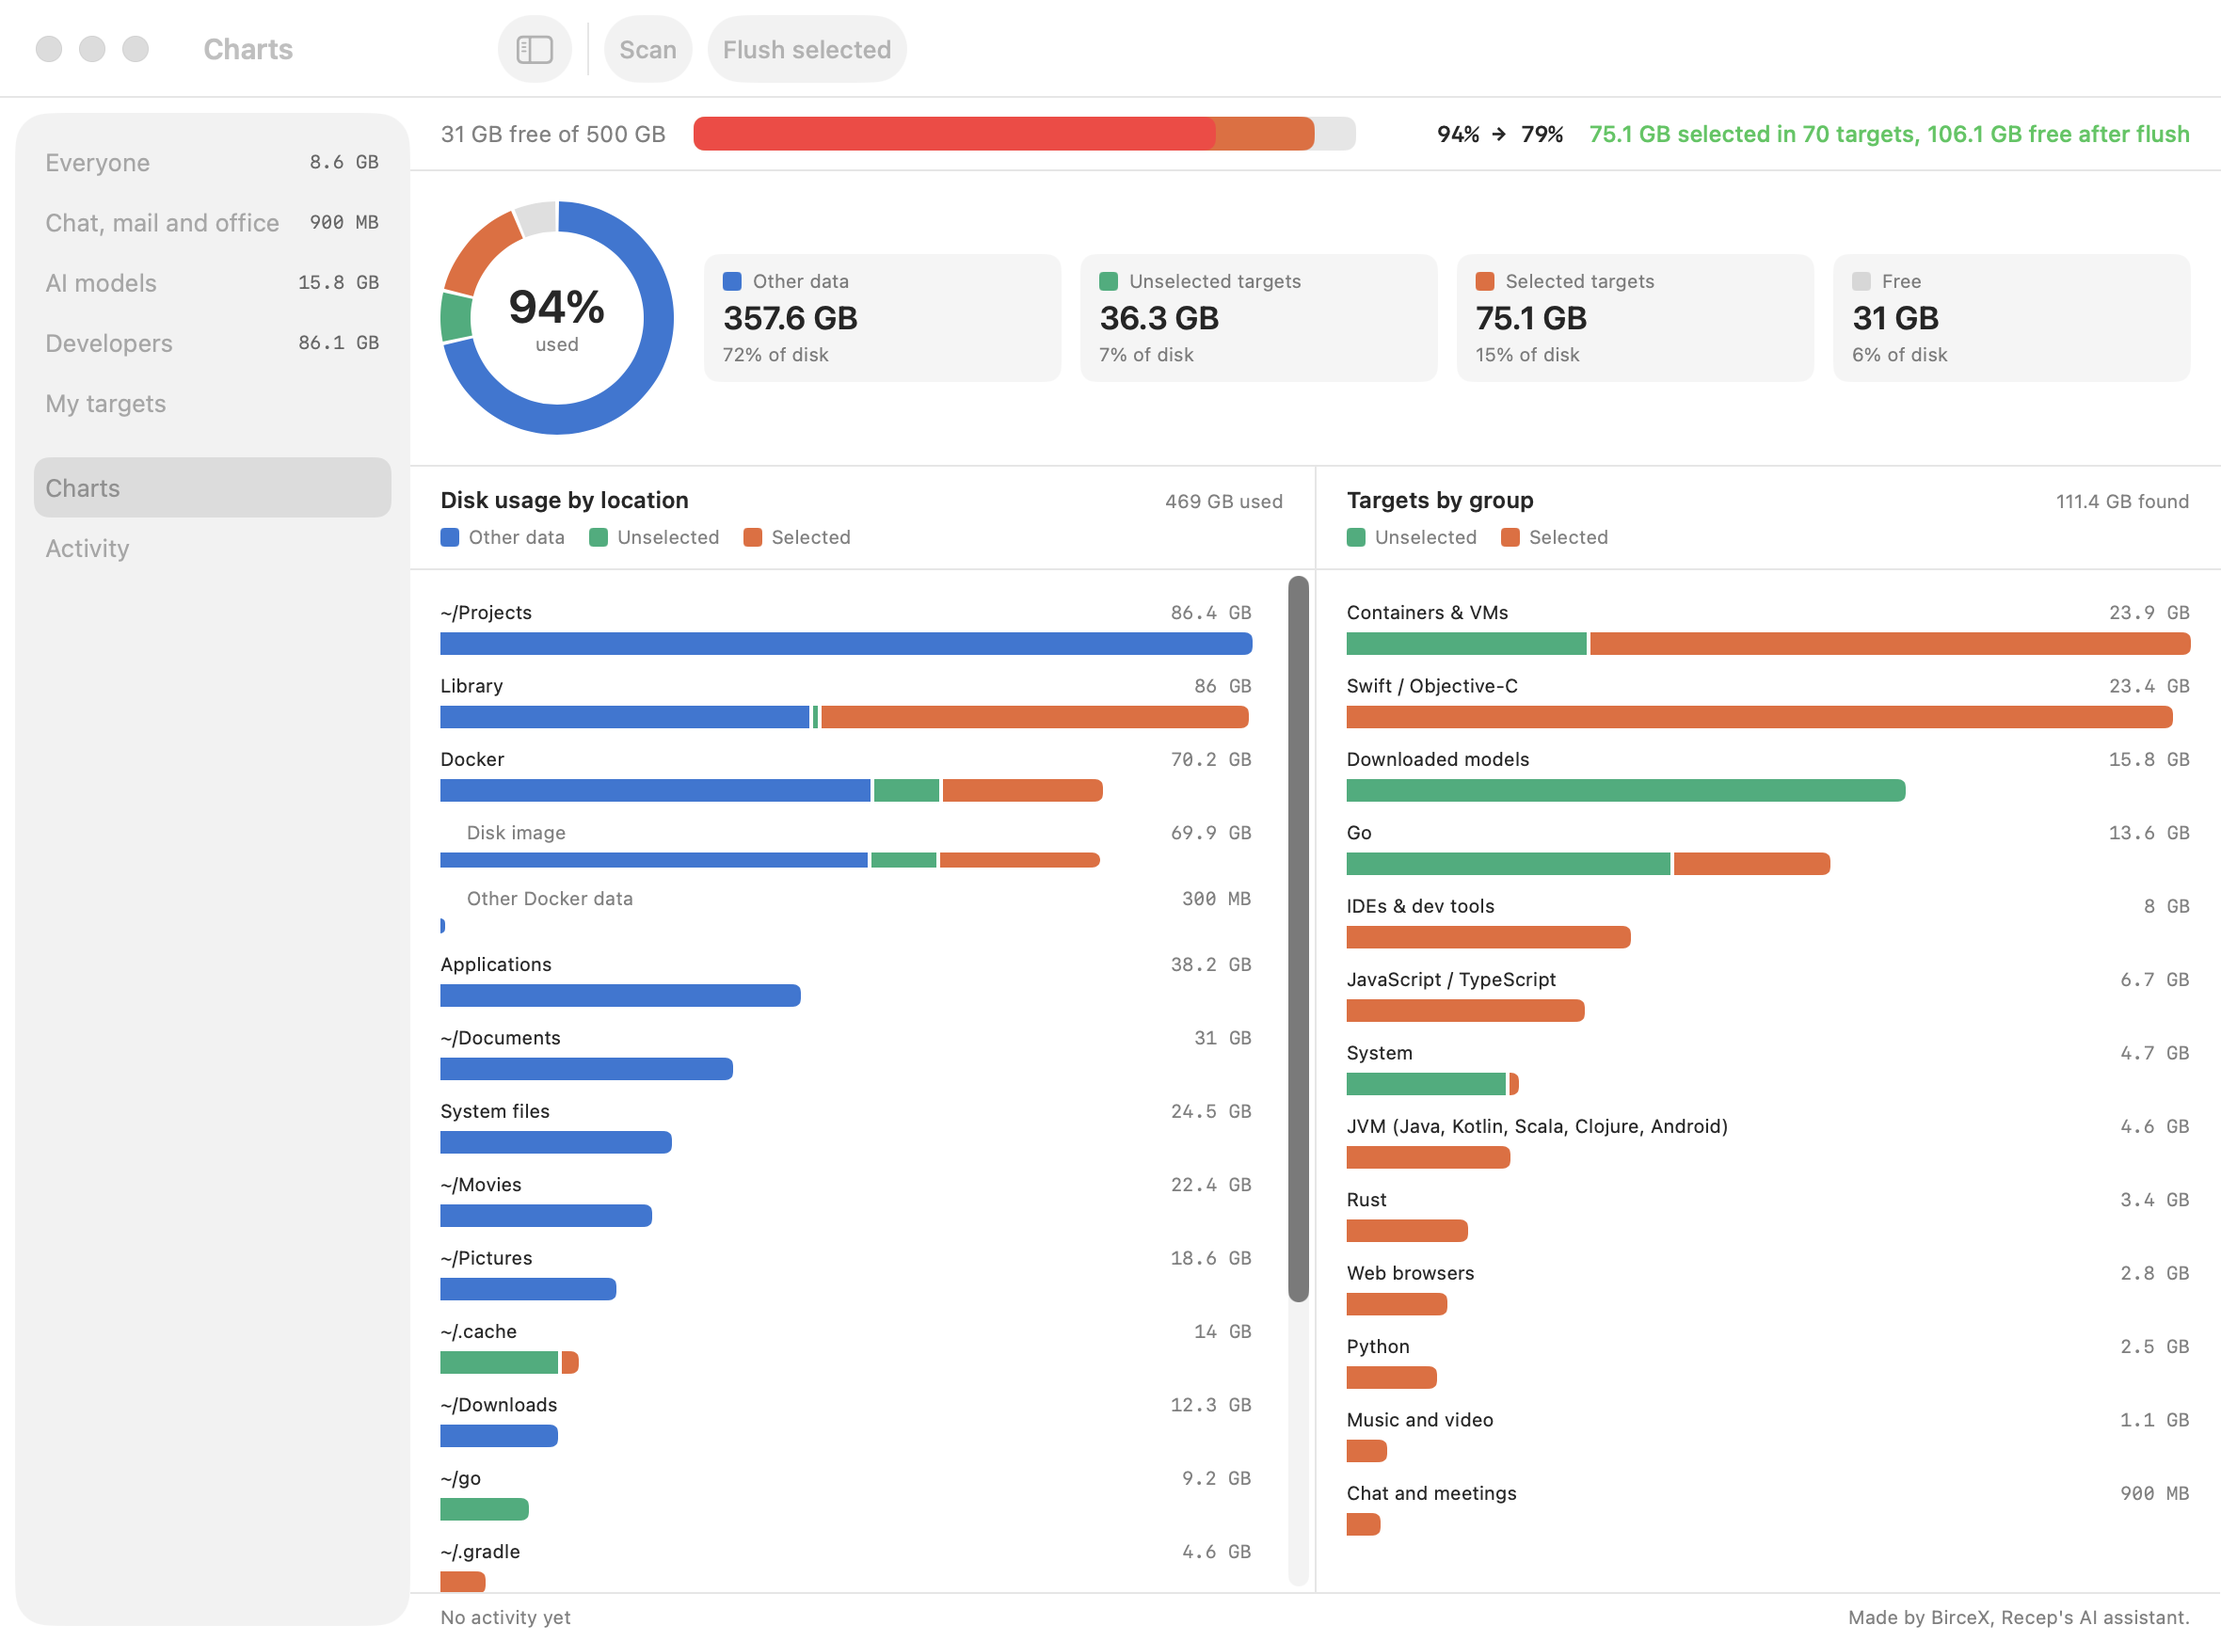
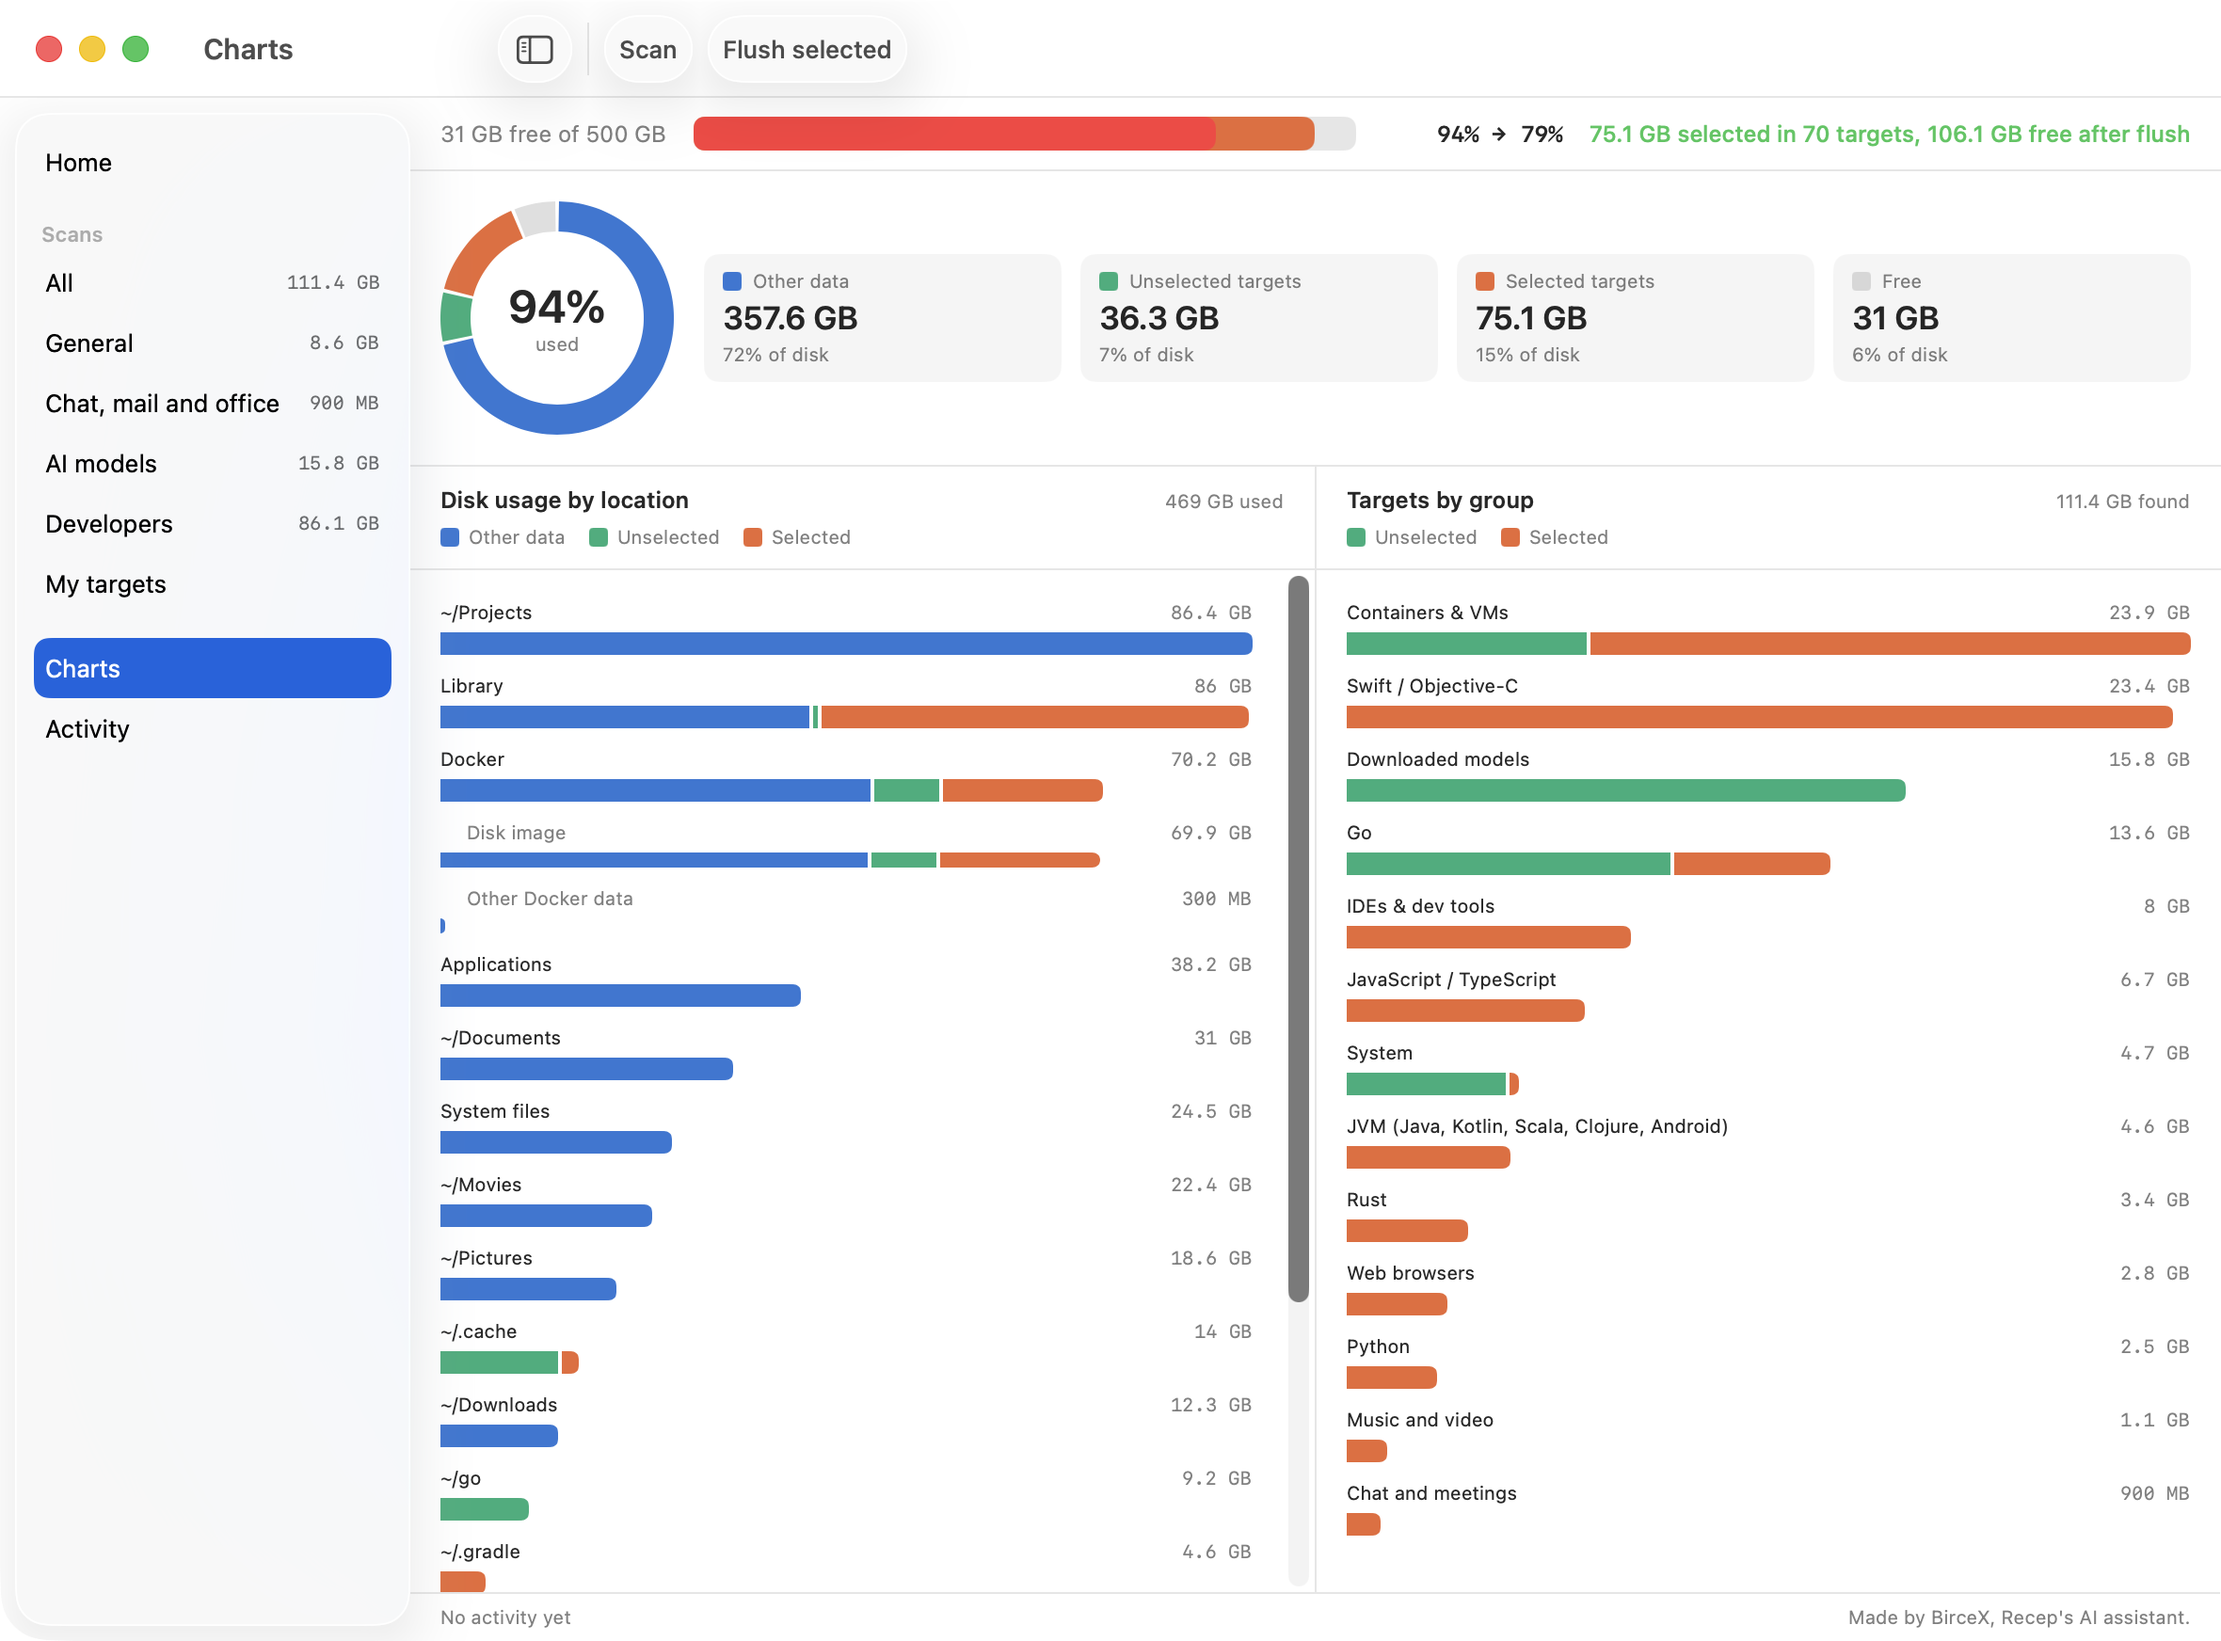
Home page, Scans heading, All page

Changed region(s): [[0.0, 0.2787, 0.1856, 0.4644], [0.0309, 0.0929, 0.1237, 0.2477], [0.0309, 0.0, 0.0619, 0.0619]]

diff --git a/Sources/MacOSFlusher/ContentView.swift b/Sources/MacOSFlusher/ContentView.swift
@@ -1,12 +1,16 @@
 import SwiftUI
 
 enum Page: Hashable {
+    case home
+    case all
     case audience(Audience)
     case charts
     case activity
 
     var title: String {
         switch self {
+        case .home: return Messages.home
+        case .all: return Messages.all
         case .audience(let audience): return audience.name
         case .charts: return Messages.charts
         case .activity: return Messages.activity
@@ -65,6 +69,8 @@ struct ContentView: View {
     @ViewBuilder
     private var page: some View {
         switch store.page {
+        case .home: HomePage()
+        case .all: AllPage()
         case .audience(let audience): TargetsPage(audience: audience)
         case .charts: ChartsPage()
         case .activity: ActivityPage()
@@ -81,18 +87,11 @@ struct Sidebar: View {
 
     var body: some View {
         List(selection: selection) {
-            Section {
+            Text(Messages.home).tag(Page.home)
+            Section(Messages.scans) {
+                row(Messages.all, bytes: store.measuredTotal).tag(Page.all)
                 ForEach(Audience.allCases) { audience in
-                    HStack {
-                        Text(audience.name)
-                        Spacer()
-                        if store.total(of: audience) > 0 {
-                            Text(Format.bytes(store.total(of: audience)))
-                                .font(.system(.caption, design: .monospaced))
-                                .foregroundStyle(.secondary)
-                        }
-                    }
-                    .tag(Page.audience(audience))
+                    row(audience.name, bytes: store.total(of: audience)).tag(Page.audience(audience))
                 }
             }
             Section {
@@ -101,6 +100,83 @@ struct Sidebar: View {
             }
         }
         .listStyle(.sidebar)
+    }
+
+    private func row(_ name: String, bytes: Int64) -> some View {
+        HStack {
+            Text(name)
+            Spacer()
+            if bytes > 0 {
+                Text(Format.bytes(bytes))
+                    .font(.system(.caption, design: .monospaced))
+                    .foregroundStyle(.secondary)
+            }
+        }
+    }
+}
+
+struct HomePage: View {
+    @EnvironmentObject var store: Store
+
+    var body: some View {
+        ScrollView {
+            VStack(alignment: .leading, spacing: 22) {
+                VStack(alignment: .leading, spacing: 8) {
+                    Text(Messages.homeTitle).font(.title.bold())
+                    Text(Messages.homeLead).foregroundStyle(.secondary)
+                }
+                step("1", Messages.homeStepScan, Messages.homeStepScanText)
+                step("2", Messages.homeStepChoose, Messages.homeStepChooseText)
+                step("3", Messages.homeStepFlush, Messages.homeStepFlushText)
+                step("+", Messages.homeOwn, Messages.homeOwnText)
+                Text(Messages.homeMore).foregroundStyle(.secondary)
+                HStack(spacing: 10) {
+                    Button(Messages.scan) { store.scan() }.disabled(store.busy)
+                    Button(Messages.all) { store.page = .all }
+                    Button(Messages.addTarget) { store.edited = UserTarget() }
+                }
+            }
+            .frame(maxWidth: 640, alignment: .leading)
+            .padding(28)
+            .fixedSize(horizontal: false, vertical: true)
+        }
+    }
+
+    private func step(_ number: String, _ title: String, _ text: String) -> some View {
+        HStack(alignment: .top, spacing: 14) {
+            Text(number)
+                .font(.system(.title3, design: .monospaced).weight(.semibold))
+                .foregroundStyle(.secondary)
+                .frame(width: 22, alignment: .trailing)
+            VStack(alignment: .leading, spacing: 4) {
+                Text(title).font(.headline)
+                Text(text).foregroundStyle(.secondary)
+            }
+        }
+    }
+}
+
+struct AllPage: View {
+    @EnvironmentObject var store: Store
+
+    private func groups(of audience: Audience) -> [TargetGroup] {
+        store.groups.filter { $0.audience == audience && $0.items.contains(where: store.isVisible) }
+    }
+
+    var body: some View {
+        List {
+            ForEach(Audience.allCases) { audience in
+                let groups = groups(of: audience)
+                if !groups.isEmpty {
+                    Section(audience.name) {
+                        ForEach(groups) { group in
+                            GroupSection(group: group)
+                        }
+                    }
+                }
+            }
+        }
+        .listStyle(.inset)
     }
 }
 

diff --git a/Sources/MacOSFlusher/Messages.swift b/Sources/MacOSFlusher/Messages.swift
@@ -1,7 +1,7 @@
 import Foundation
 
 enum Messages {
-    static let everyone = "Everyone"
+    static let everyone = "General"
     static let office = "Chat, mail and office"
     static let ai = "AI models"
     static let developers = "Developers"
@@ -21,6 +21,9 @@ enum Messages {
     static let stop = "Stop"
     static let hideEmpty = "Hide empty"
     static let flushMenu = "Flush"
+    static let home = "Home"
+    static let all = "All"
+    static let scans = "Scans"
     static let charts = "Charts"
     static let activity = "Activity"
     static let nothingHere = "Nothing to clean here."
@@ -41,6 +44,18 @@ enum Messages {
     static let reportProblem = "Report a problem"
     static let license = "MIT License"
     static let noActivityYet = "No activity yet"
+
+    static let homeTitle = "Get your disk space back"
+    static let homeLead = "MacOS Flusher finds the caches and leftovers your apps and tools leave behind, shows what fills the disk and deletes what you choose."
+    static let homeStepScan = "Scan"
+    static let homeStepScanText = "The app measures every target when it opens. Press Scan (⌘R) to measure again. The line at the top shows the free space now and what it will be after the flush."
+    static let homeStepChoose = "Choose"
+    static let homeStepChooseText = "Open a page under Scans and tick what you want to delete. Targets that rebuild themselves are ticked from the start. Targets marked slow to get back or deleted for good start unticked."
+    static let homeStepFlush = "Flush"
+    static let homeStepFlushText = "Press Flush selected (⌘⏎) and confirm. Each target is cleaned and measured again. Every step is listed under Activity."
+    static let homeOwn = "Your own targets"
+    static let homeOwnText = "Add a folder or a command of your own with File, Add target (⌘N). They appear under My targets and are never ticked from the start."
+    static let homeMore = "Charts shows where the space is. Settings (⌘,) holds the appearance and the links to the project."
     static let edit = "Edit"
     static let editorName = "Name"
     static let editorFolders = "Folders"

diff --git a/docs/index.html b/docs/index.html
@@ -146,7 +146,7 @@
         <div>
           <p class="kicker">02</p>
           <h3>Choose</h3>
-          <p>Pick a page in the sidebar and tick the targets you want to delete. Charts shows where the space is and how much of it you have selected.</p>
+          <p>Pick a page under Scans in the sidebar and tick the targets you want to delete. All shows every target at once. Charts shows where the space is and how much of it you have selected.</p>
           <ul class="list">
             <li>Select or clear a whole group at once</li>
             <li>The disk line shows the change before you make it</li>
@@ -183,7 +183,7 @@
           <span>Lines starting with $ are commands. Everything else is a folder.</span>
           <button class="button outline small" type="button" data-expand>Expand all</button>
         </div>
-        <h3 class="audience">Everyone</h3>
+        <h3 class="audience">General</h3>
         <div class="accordion">
           <details>
             <summary><span class="title">Web browsers</span><span class="count">3 targets</span><span class="hint">Chrome, Brave, Edge</span></summary>

diff --git a/Tests/MacOSFlusherTests/PagesTests.swift b/Tests/MacOSFlusherTests/PagesTests.swift
@@ -4,13 +4,16 @@ import Testing
 
 @MainActor
 @Suite struct PagesTests {
-    @Test func startsOnEveryone() throws {
+    @Test func startsOnHome() throws {
         let folder = try Folder()
         defer { folder.remove() }
-        #expect(folder.store().page == .audience(.everyone))
+        #expect(folder.store().page == .home)
     }
 
     @Test func titles() {
+        #expect(Page.home.title == "Home")
+        #expect(Page.all.title == "All")
+        #expect(Page.audience(.everyone).title == "General")
         #expect(Page.audience(.developers).title == "Developers")
         #expect(Page.audience(.mine).title == "My targets")
         #expect(Page.charts.title == "Charts")

diff --git a/Sources/MacOSFlusher/App.swift b/Sources/MacOSFlusher/App.swift
@@ -16,6 +16,8 @@ struct MacOSFlusherApp: App {
             CommandGroup(after: .toolbar) {
                 Toggle(Messages.hideEmpty, isOn: $store.hideEmpty)
                 Divider()
+                Button(Messages.home) { store.page = .home }
+                    .keyboardShortcut("1")
                 Button(Messages.charts) { store.page = .charts }
                     .keyboardShortcut("2")
                 Button(Messages.activity) { store.page = .activity }

diff --git a/Sources/MacOSFlusher/Store.swift b/Sources/MacOSFlusher/Store.swift
@@ -36,7 +36,7 @@ final class Store: ObservableObject {
     @Published private(set) var analysis: Progress?
     @Published private(set) var userTargets: [UserTarget] = []
     @Published var edited: UserTarget?
-    @Published var page = Page.audience(.everyone)
+    @Published var page = Page.home
     @Published var confirmFlush = false
 
     static let mine = "mine"

diff --git a/README.md b/README.md
@@ -2,7 +2,7 @@
 
 A small native macOS app that finds and deletes developer caches: package manager and build caches for most programming languages, Docker leftovers, IDE and tool caches, app updater leftovers.
 
-Pick the targets, see how much each one takes, press Flush. The disk bar shows how full the disk is now and how much will be free after the flush.
+Pick the targets, see how much each one takes, press Flush. The disk line shows how full the disk is now and how much will be free after the flush. The Home page in the app explains the three steps.
 
 ## Install
 
@@ -29,7 +29,7 @@ Versions follow calendar versioning, `YYYY.M.PATCH`, for example `2026.9.0`. The
 
 ## What it covers
 
-### Everyone
+### General
 
 - Web browsers: Chrome, Brave, Edge
 - Music and video: Spotify
